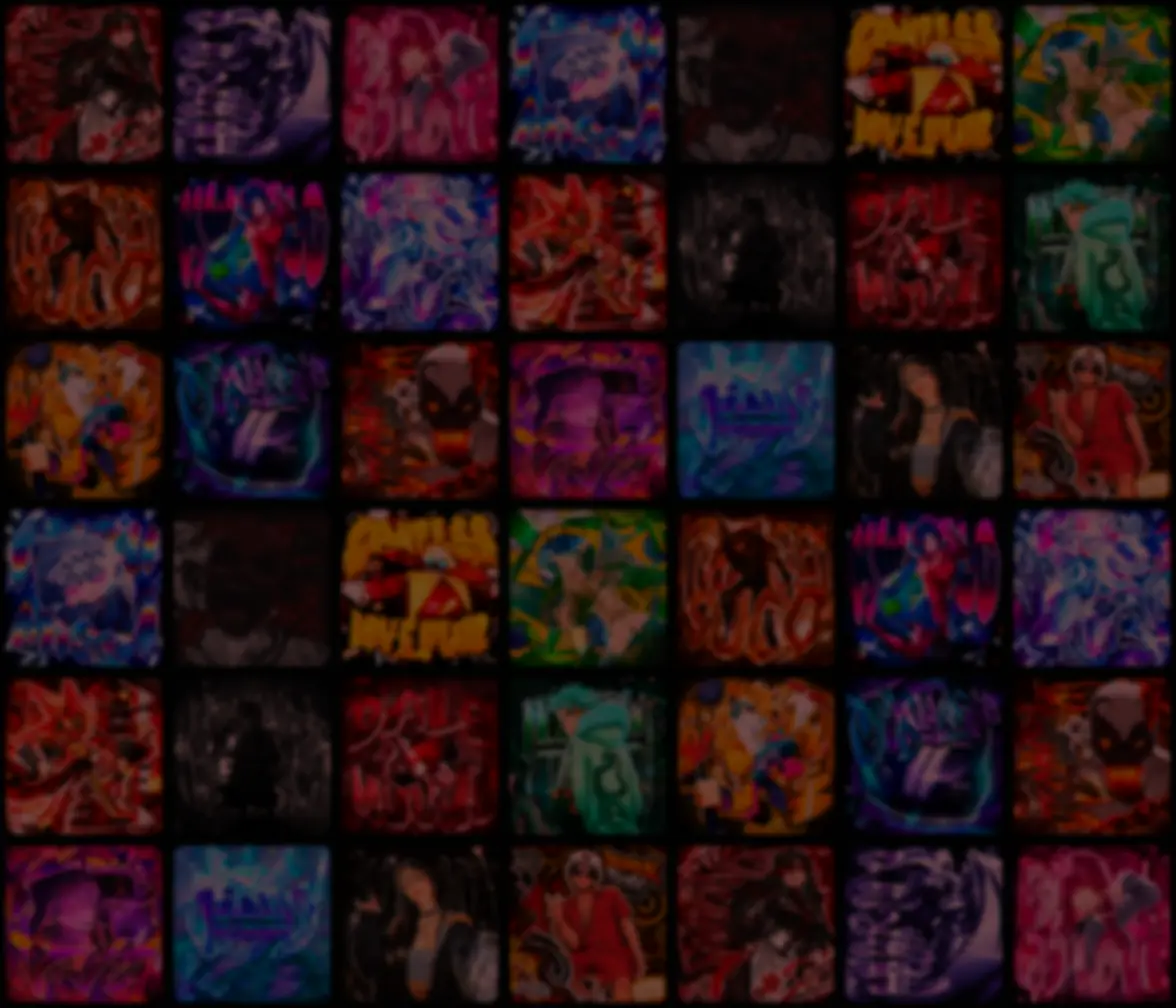
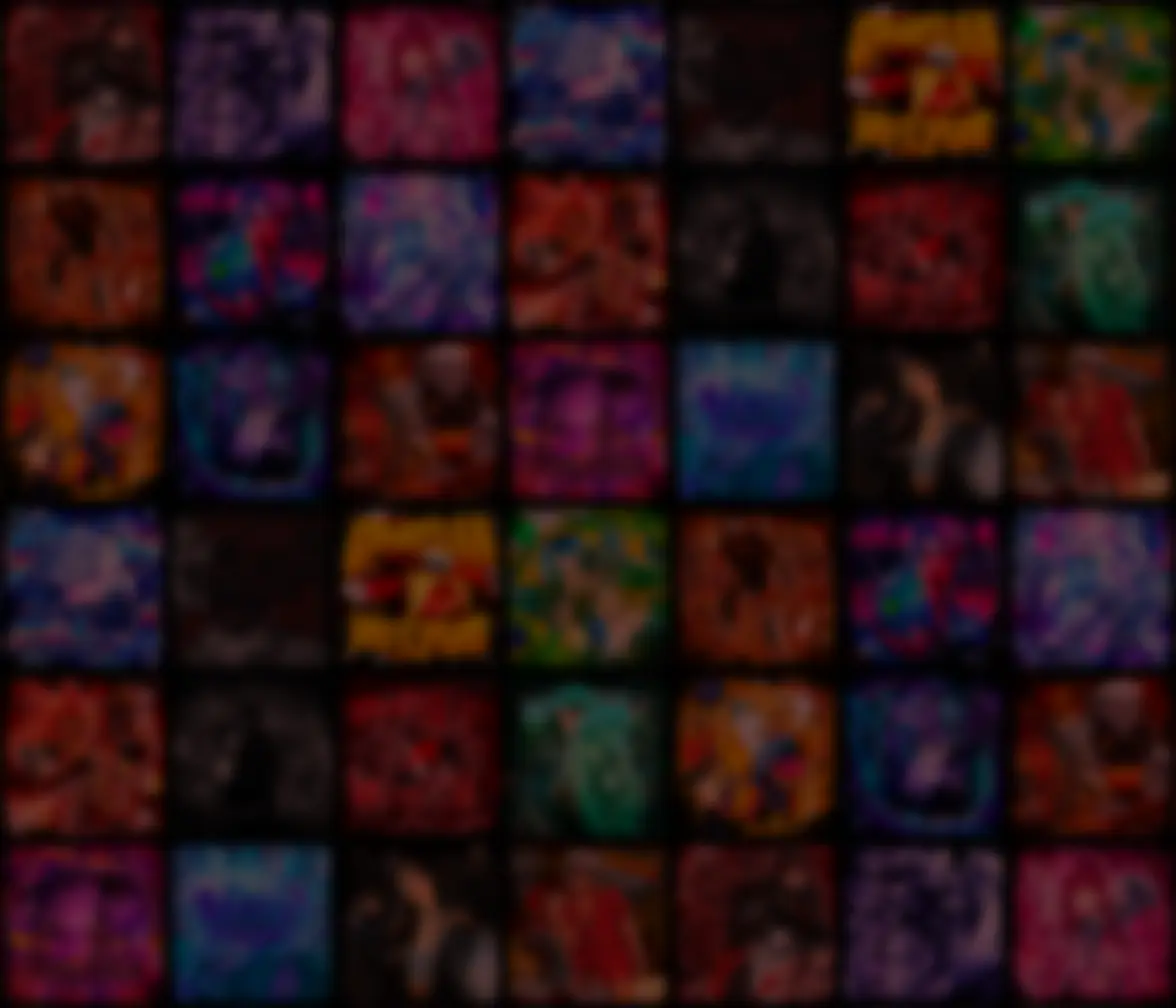
Cover wall: constant upward drift, blurred side bands, darker footer
The wall now rises on its own (CSS keyframes, 6 cells per 40s along the
grid's tilted axis) instead of moving only with scroll. It is transform
only, so it runs on the compositor. It is hidden and paused while
scrolled to the top.

Covers now show only in two side bands (horizontal mask). The middle
stays clear for the content, and the globe no longer sits on top of
cover art. The tile is rebuilt with heavier blur (6px, from 2.4) so the
bands read as filled rather than as a grid with gaps.

The contact footer gets a near-black ground, so "Let's work together"
closes the page on dark instead of over the wall.

cover-wall.js is now only the scroll reveal.

diff --git a/styles.css b/styles.css
@@ -167,42 +167,88 @@ a {
    runs a runtime blur. Sits between .art-wash and .art-grain in the DOM:
    every section paints over it and the grain still textures it. The hero's
    opaque .hero-art hides it at the top, and its bottom mask fade is where
-   the wall first shows through. cover-wall.js drives two variables from
-   scroll: --wall-reveal (0 at the top of the page, 1 once the hero is mostly
-   gone) and --wall-y (a drift along the grid's own tilted axis at a
-   fraction of scroll speed). Opacity and transform only, no repaint. The
-   drift wraps at one tile height, so the plane needs one tile of slack
-   instead of growing with the page. --wall-strength is the one knob for how
-   loud the wall reads behind the content. The mask pulls the middle of the
-   screen down to ~half strength: the globe's far tiles are covers too, and
-   at full strength they melted into the wall behind them. Content sits
-   centered in every section, so the wall frames it from the edges instead
-   of competing with it. */
+   the wall first shows through. cover-wall.js drives one variable from
+   scroll, --wall-reveal: 0 at the top of the page, 1 once the hero is
+   mostly gone. --wall-strength is the one knob for how loud the wall reads.
+   Only the two side bands show covers (the mask). The middle is left to
+   the content, which sits centered in every section. Covers behind it made
+   the globe's far tiles (covers too) melt into the wall, and turned the
+   whole screen into cover art. The heavier baked blur is what makes the
+   bands read as filled rather than as a grid with gaps. */
 .cover-wall {
   --wall-cell: clamp(110px, 17vw, 300px);
-  --wall-strength: 0.5;
+  --wall-strength: 0.72;
   position: fixed;
   inset: 0;
   z-index: 0;
   overflow: hidden;
   pointer-events: none;
   opacity: calc(var(--wall-reveal, 0) * var(--wall-strength));
-  mask-image: radial-gradient(ellipse 58% 52% at 50% 50%, rgba(0, 0, 0, 0.45), #000 100%);
-  -webkit-mask-image: radial-gradient(ellipse 58% 52% at 50% 50%, rgba(0, 0, 0, 0.45), #000 100%);
+  mask-image: linear-gradient(90deg, #000 0%, #000 12%, transparent 36%, transparent 64%, #000 88%, #000 100%);
+  -webkit-mask-image: linear-gradient(90deg, #000 0%, #000 12%, transparent 36%, transparent 64%, #000 88%, #000 100%);
+}
+
+/* Scrolled back to the top, the wall is fully transparent. Hidden, the
+   browser can stop compositing it and the rise animation below pauses. */
+.cover-wall.is-off {
+  visibility: hidden;
+}
+
+.cover-wall.is-off .cover-wall-plane::before {
+  animation-play-state: paused;
 }
 
 /* Unrotated size that still covers the viewport at -9deg (w*cos + h*sin by
    w*sin + h*cos), plus a cell of margin and, vertically, one full tile
-   (6 cells) of drift slack, since --wall-y runs from +half a tile to -half. */
+   (6 cells) of slack for the rise below, which runs from +half a tile to
+   -half. */
 .cover-wall-plane {
   position: absolute;
   left: 50%;
   top: 50%;
   width: calc(98.8vw + 15.7vh + var(--wall-cell));
   height: calc(15.7vw + 98.8vh + 7 * var(--wall-cell));
+  transform: translate(-50%, -50%) rotate(-9deg);
+}
+
+/* The moving part: the tile itself rises along the grid's tilted axis, the
+   promo's upward drift, on a loop that doesn't depend on scrolling. One
+   iteration moves exactly one tile height and the tile repeats, so the
+   loop point is invisible. Transform only, so it runs on the compositor.
+   Speed scales with --wall-cell (6 cells per 40s), so phones and desktops
+   drift at the same pace relative to the covers. */
+.cover-wall-plane::before {
+  content: "";
+  position: absolute;
+  inset: 0;
   background: url("assets/cover-wall.webp") 0 0 / calc(7 * var(--wall-cell)) calc(6 * var(--wall-cell)) repeat;
-  transform: translate(-50%, -50%) rotate(-9deg) translate3d(0, var(--wall-y, 0px), 0);
+  animation: cover-wall-rise 40s linear infinite;
   will-change: transform;
+}
+
+@keyframes cover-wall-rise {
+  from {
+    transform: translate3d(0, calc(3 * var(--wall-cell)), 0);
+  }
+  to {
+    transform: translate3d(0, calc(-3 * var(--wall-cell)), 0);
+  }
+}
+
+@media (max-width: 700px) {
+  /* Phone content runs nearly edge to edge, so the bands stay thin and
+     quieter. The wall just edges the screen instead of sitting under text. */
+  .cover-wall {
+    --wall-strength: 0.5;
+    mask-image: linear-gradient(90deg, #000 0%, transparent 24%, transparent 76%, #000 100%);
+    -webkit-mask-image: linear-gradient(90deg, #000 0%, transparent 24%, transparent 76%, #000 100%);
+  }
+}
+
+@media (prefers-reduced-motion: reduce) {
+  .cover-wall-plane::before {
+    animation: none;
+  }
 }
 
 /* Third ambient layer: a giant hairline vinyl/soundwave motif, drifting

diff --git a/cover-wall.js b/cover-wall.js
@@ -1,47 +1,25 @@
-// Scroll-linked motion for the cover wall (.cover-wall, styles.css).
+// Scroll reveal for the cover wall (.cover-wall, styles.css).
 //
-// Two CSS variables, both written once per animation frame at most:
-//   --wall-reveal on .cover-wall: 0 at the top of the page, 1 once the hero
-//     is ~60% scrolled away. CSS multiplies it by --wall-strength, so the
-//     wall arrives with the rest of the page instead of sitting under the
-//     hero from the first frame.
-//   --wall-y on .cover-wall-plane: the wall slides up at DRIFT times scroll
-//     speed, so it reads as a slower plane behind the content (the promo's
-//     upward drift, tied to scroll instead of time). The value wraps at one
-//     tile height, and the tile repeats, so the jump back is invisible and
-//     the plane never runs out.
+// Writes --wall-reveal on .cover-wall at most once per animation frame: 0 at
+// the top of the page, 1 once the hero is ~60% scrolled away. CSS multiplies
+// it by --wall-strength, so the wall arrives with the rest of the page
+// instead of sitting under the hero from the first frame. At 0 the wall
+// also gets .is-off, which hides it and pauses its CSS rise animation.
 //
-// No loop runs while the page is still. Reduced motion keeps the reveal
-// (a fade, not motion) and drops the drift.
+// The upward drift itself is pure CSS (cover-wall-rise). Nothing here runs
+// while the page is still.
 (() => {
   const wall = document.querySelector(".cover-wall");
-  const plane = wall && wall.querySelector(".cover-wall-plane");
-  if (!plane) return;
+  if (!wall) return;
 
-  const DRIFT = 0.22;
   const REVEAL_BY = 0.6; // fraction of one viewport height of scroll
-  const reduceMotion = window.matchMedia("(prefers-reduced-motion: reduce)");
-
-  // One tile height in px, read back from the resolved background-size
-  // ("1715px 1470px") so the clamp() in CSS stays the only source of truth.
-  let period = 0;
-  const measure = () => {
-    const size = getComputedStyle(plane).backgroundSize.split(" ");
-    period = parseFloat(size[1]) || parseFloat(size[0]) || 0;
-  };
 
   let queued = false;
   const update = () => {
     queued = false;
-    const y = window.scrollY;
-    const reveal = Math.min(1, Math.max(0, y / (window.innerHeight * REVEAL_BY)));
+    const reveal = Math.min(1, Math.max(0, window.scrollY / (window.innerHeight * REVEAL_BY)));
     wall.style.setProperty("--wall-reveal", reveal.toFixed(3));
-    if (!reduceMotion.matches && period > 0) {
-      const travelled = (y * DRIFT) % period;
-      plane.style.setProperty("--wall-y", (period / 2 - travelled).toFixed(1) + "px");
-    } else {
-      plane.style.removeProperty("--wall-y");
-    }
+    wall.classList.toggle("is-off", reveal === 0);
   };
   const queue = () => {
     if (queued) return;
@@ -49,12 +27,7 @@
     requestAnimationFrame(update);
   };
 
-  measure();
   update();
   window.addEventListener("scroll", queue, { passive: true });
-  window.addEventListener("resize", () => {
-    measure();
-    queue();
-  });
-  reduceMotion.addEventListener("change", queue);
+  window.addEventListener("resize", queue);
 })();

diff --git a/page.css b/page.css
@@ -644,6 +644,13 @@
   align-items: center;
   border-top: 1px solid var(--hairline);
   filter: brightness(1.05) saturate(1.1);
+  /* Near-black ground for the close. The cover wall's side bands
+     (styles.css) and the ambient wash fade out here, so "Let's work
+     together" and the CTA carry the frame on their own. Lighter at the
+     top edge, so the wall fades into the footer instead of cutting off at
+     the hairline. The dot grid and glow below are children, so they still
+     paint on top of this. */
+  background: linear-gradient(180deg, rgba(6, 6, 6, 0.7) 0%, rgba(6, 6, 6, 0.93) 32%, rgba(6, 6, 6, 0.96) 100%);
 }
 
 /* Faint lift at the very bottom of the page — echoes the hero's glow one

diff --git a/index.html b/index.html
@@ -58,7 +58,7 @@
 
     <div class="page">
     <div class="art-wash" aria-hidden="true"></div>
-    <div class="cover-wall" aria-hidden="true"><div class="cover-wall-plane"></div></div>
+    <div class="cover-wall is-off" aria-hidden="true"><div class="cover-wall-plane"></div></div>
     <div class="art-grain" aria-hidden="true"></div>
     <header class="site-nav" id="siteNav" data-intro="1">
       <div class="site-nav-inner">
